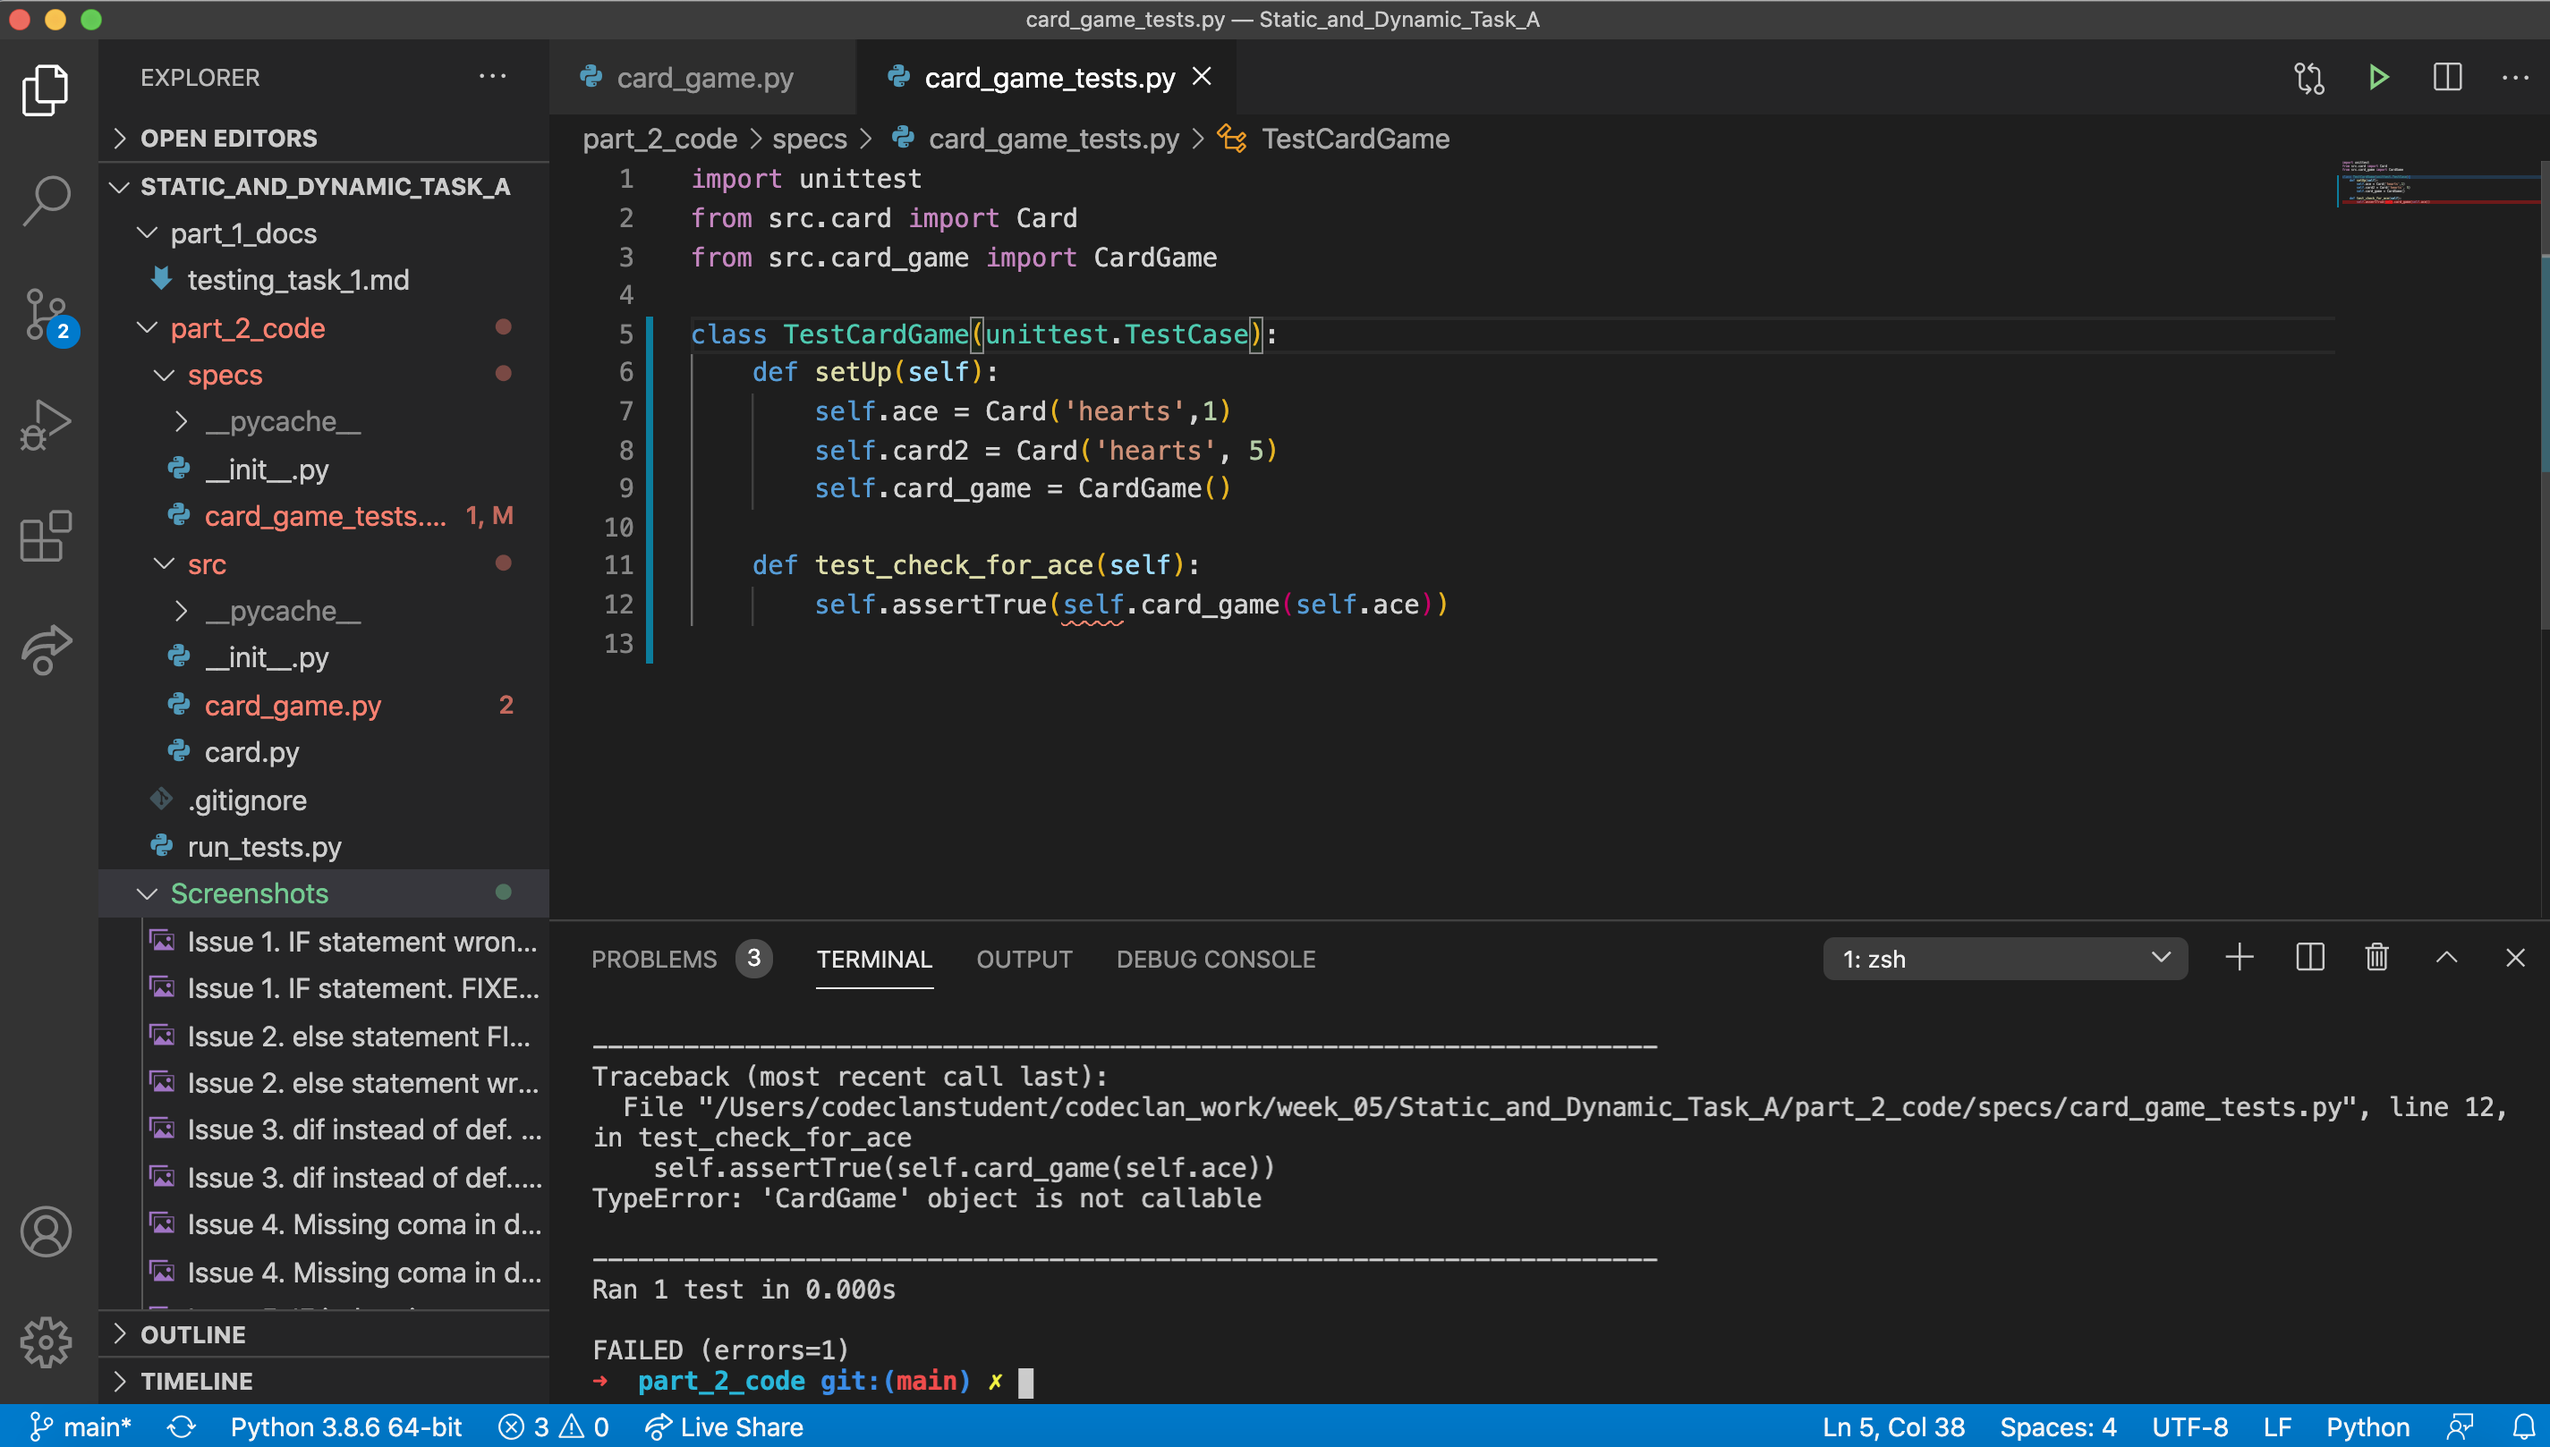
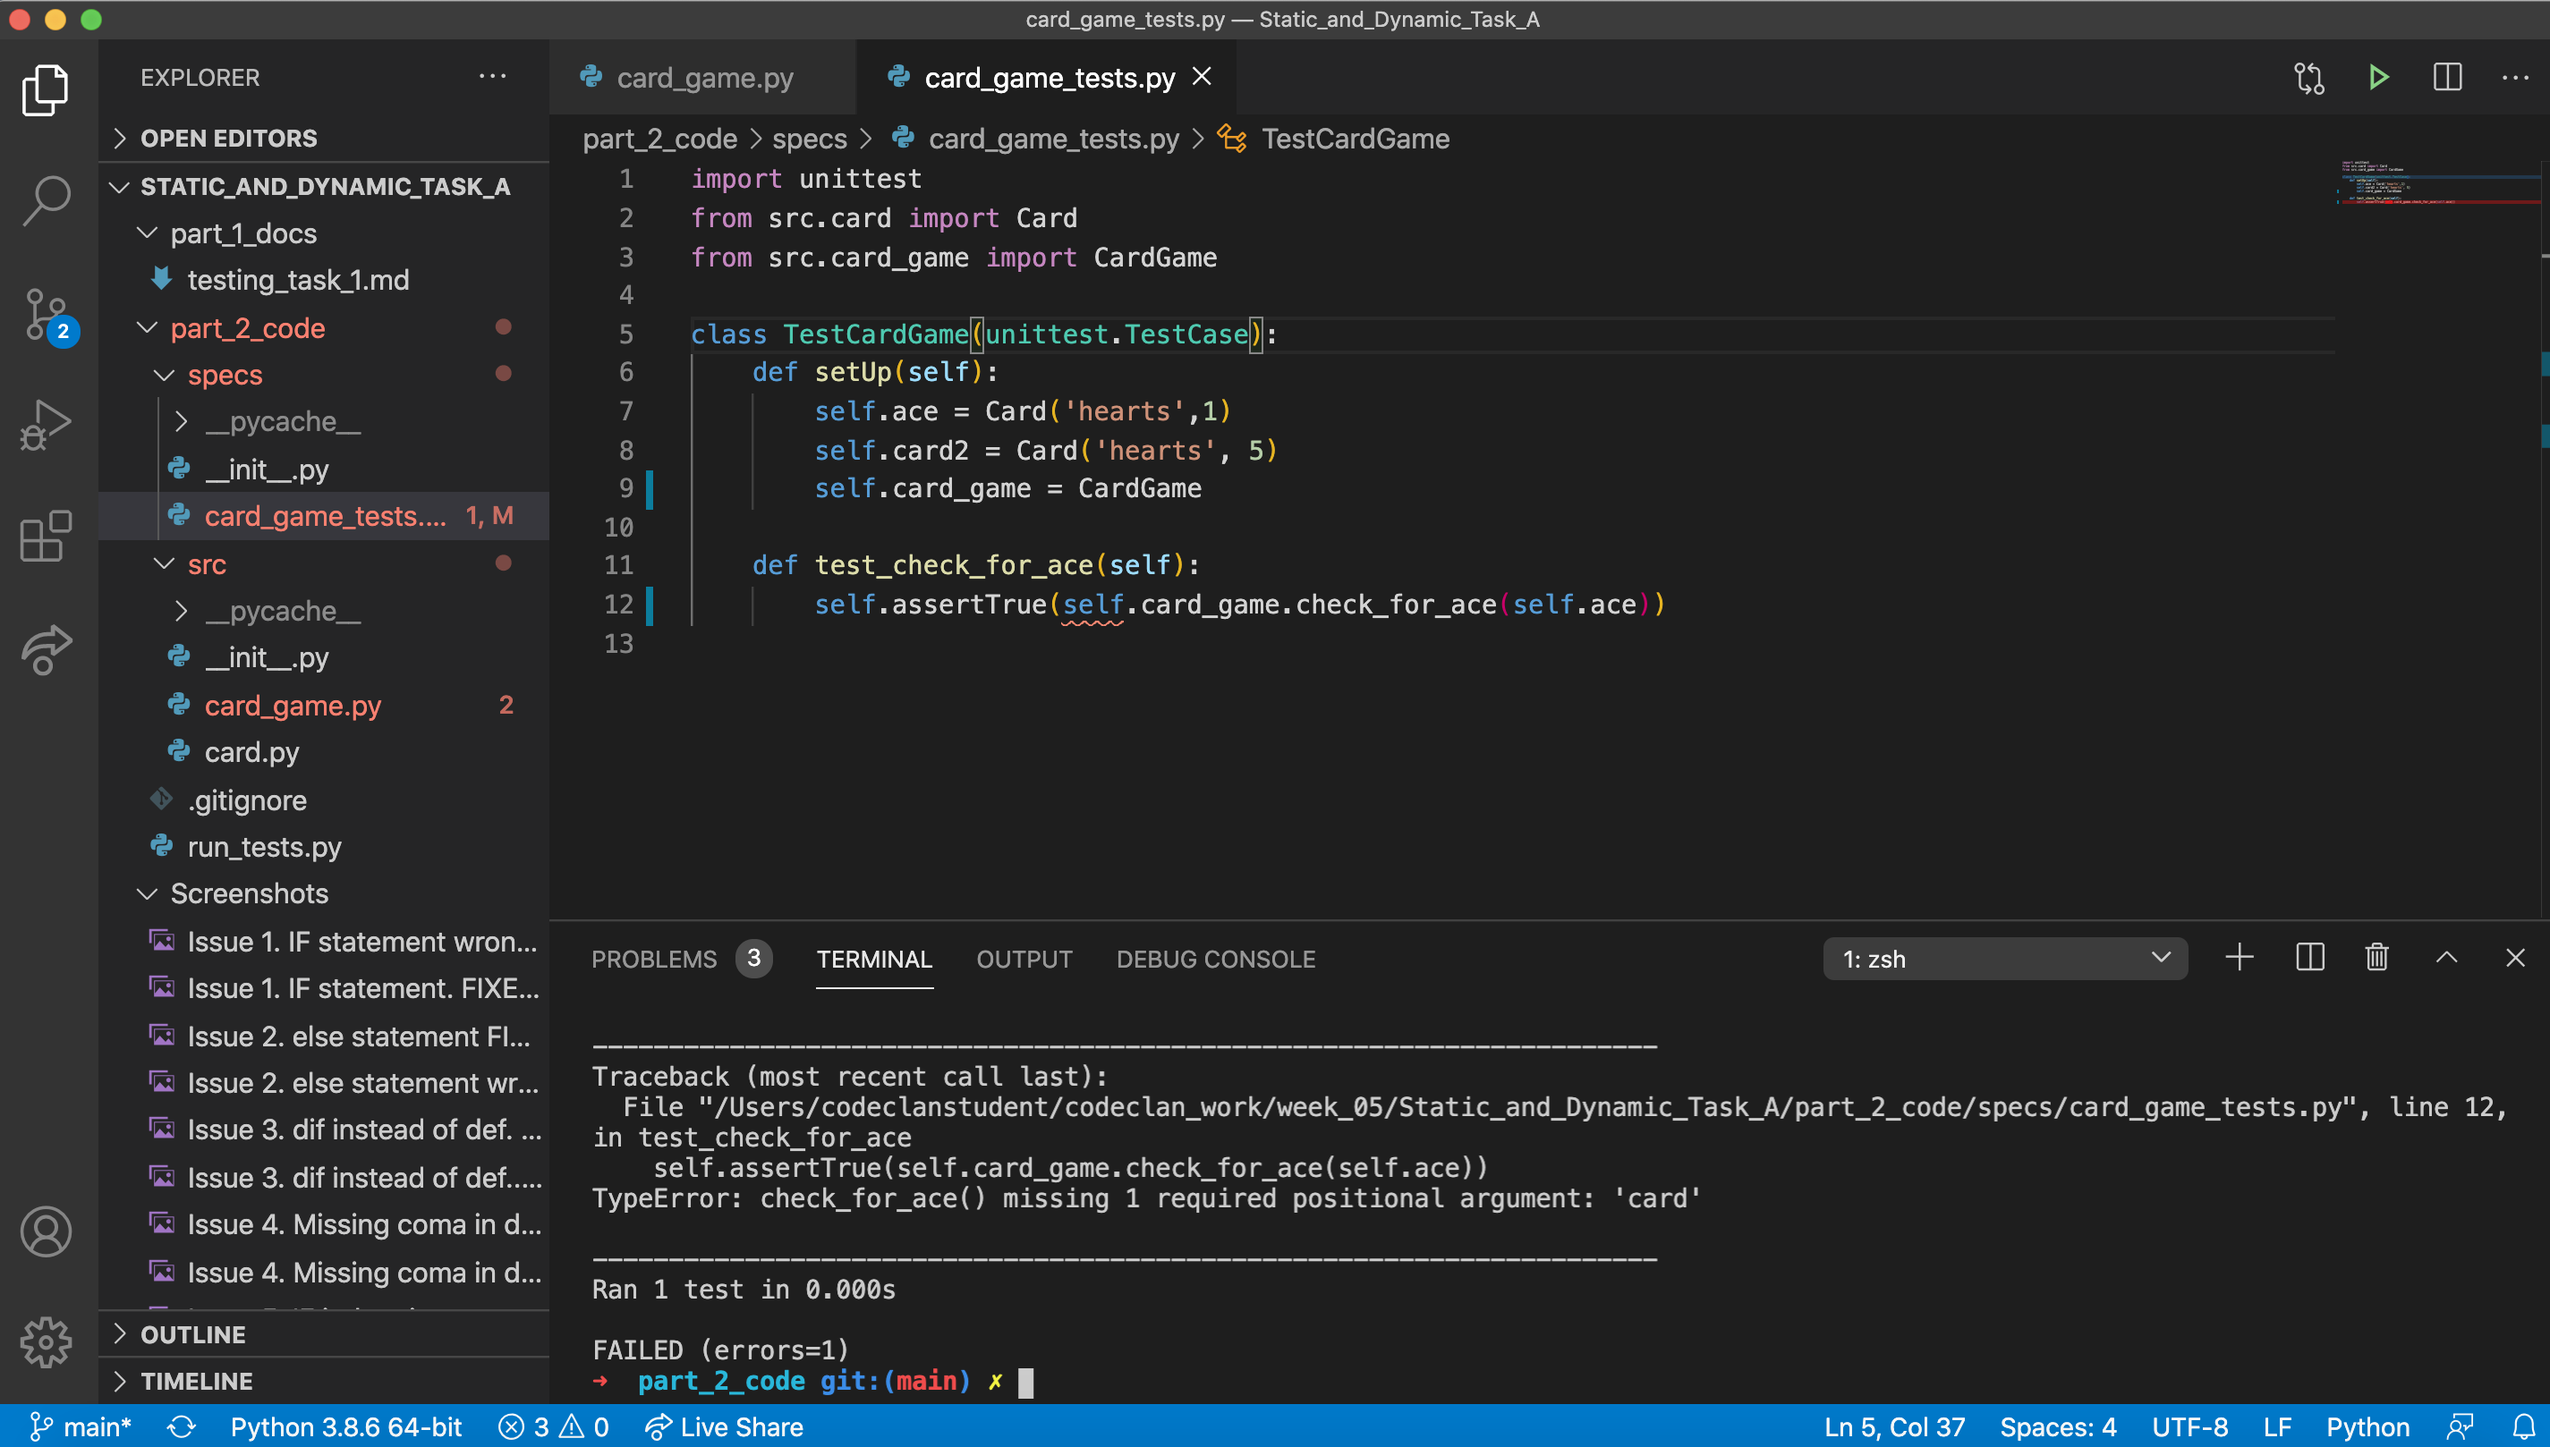
reupload for issue 6 small text change in test file

diff --git a/part_2_code/specs/card_game_tests.py b/part_2_code/specs/card_game_tests.py
@@ -6,8 +6,8 @@ class TestCardGame(unittest.TestCase):
     def setUp(self):
         self.ace = Card('hearts',1)
         self.card2 = Card('hearts', 5)
-        self.card_game = CardGame()
+        self.card_game = CardGame
 
     def test_check_for_ace(self):
-        self.assertTrue(self.card_game(self.ace))
+        self.assertTrue(self.card_game.check_for_ace(self.ace))
         
